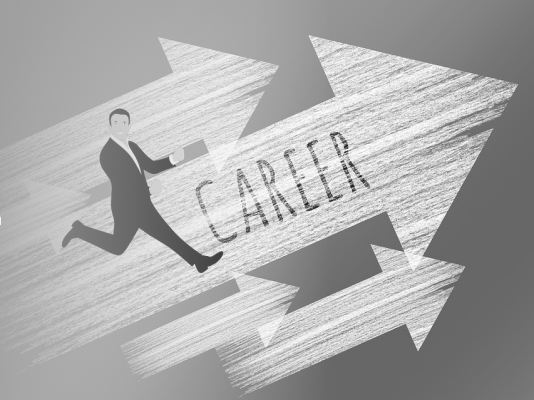
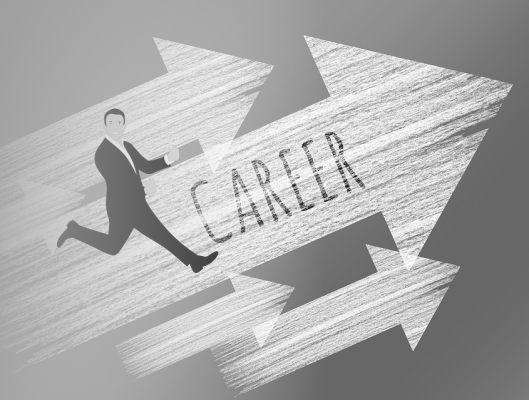
updated and made all changes

diff --git a/programmes/bsc.html b/programmes/bsc.html
@@ -340,8 +340,8 @@
             <div class="row align-items-stretch">
 
                 <!-- Left Content -->
-                <div class="col-lg-6 career-opportunity-content">
-                    <h3 class="career-title">Career Opportunities</h3>
+                <div class="col-lg-7 career-opportunity-content">
+                    <h2 class="text-white">Career Opportunities</h2>
 
                     <div class="row">
                         <div class="col-md-6">
@@ -368,7 +368,7 @@
                 </div>
 
                 <!-- Right Background Image -->
-                <div class="col-lg-6 career-opportunity-bg">
+                <div class="col-lg-5 career-opportunity-bg">
                     <div class="career-bg-overlay"></div>
                 </div>
 

diff --git a/assets/css/main.css b/assets/css/main.css
@@ -4867,11 +4867,11 @@ ul li {
 }
 
 /* Title */
-.career-title {
+/* .career-title {
   font-size: 28px;
   font-weight: 600;
   margin-bottom: 25px;
-}
+} */
 
 /* List */
 .career-list {
@@ -4884,7 +4884,7 @@ ul li {
   position: relative;
   padding-left: 18px;
   margin-bottom: 10px;
-  font-size: 15px;
+  font-size: 18px;
 }
 
 .career-list li::before {
